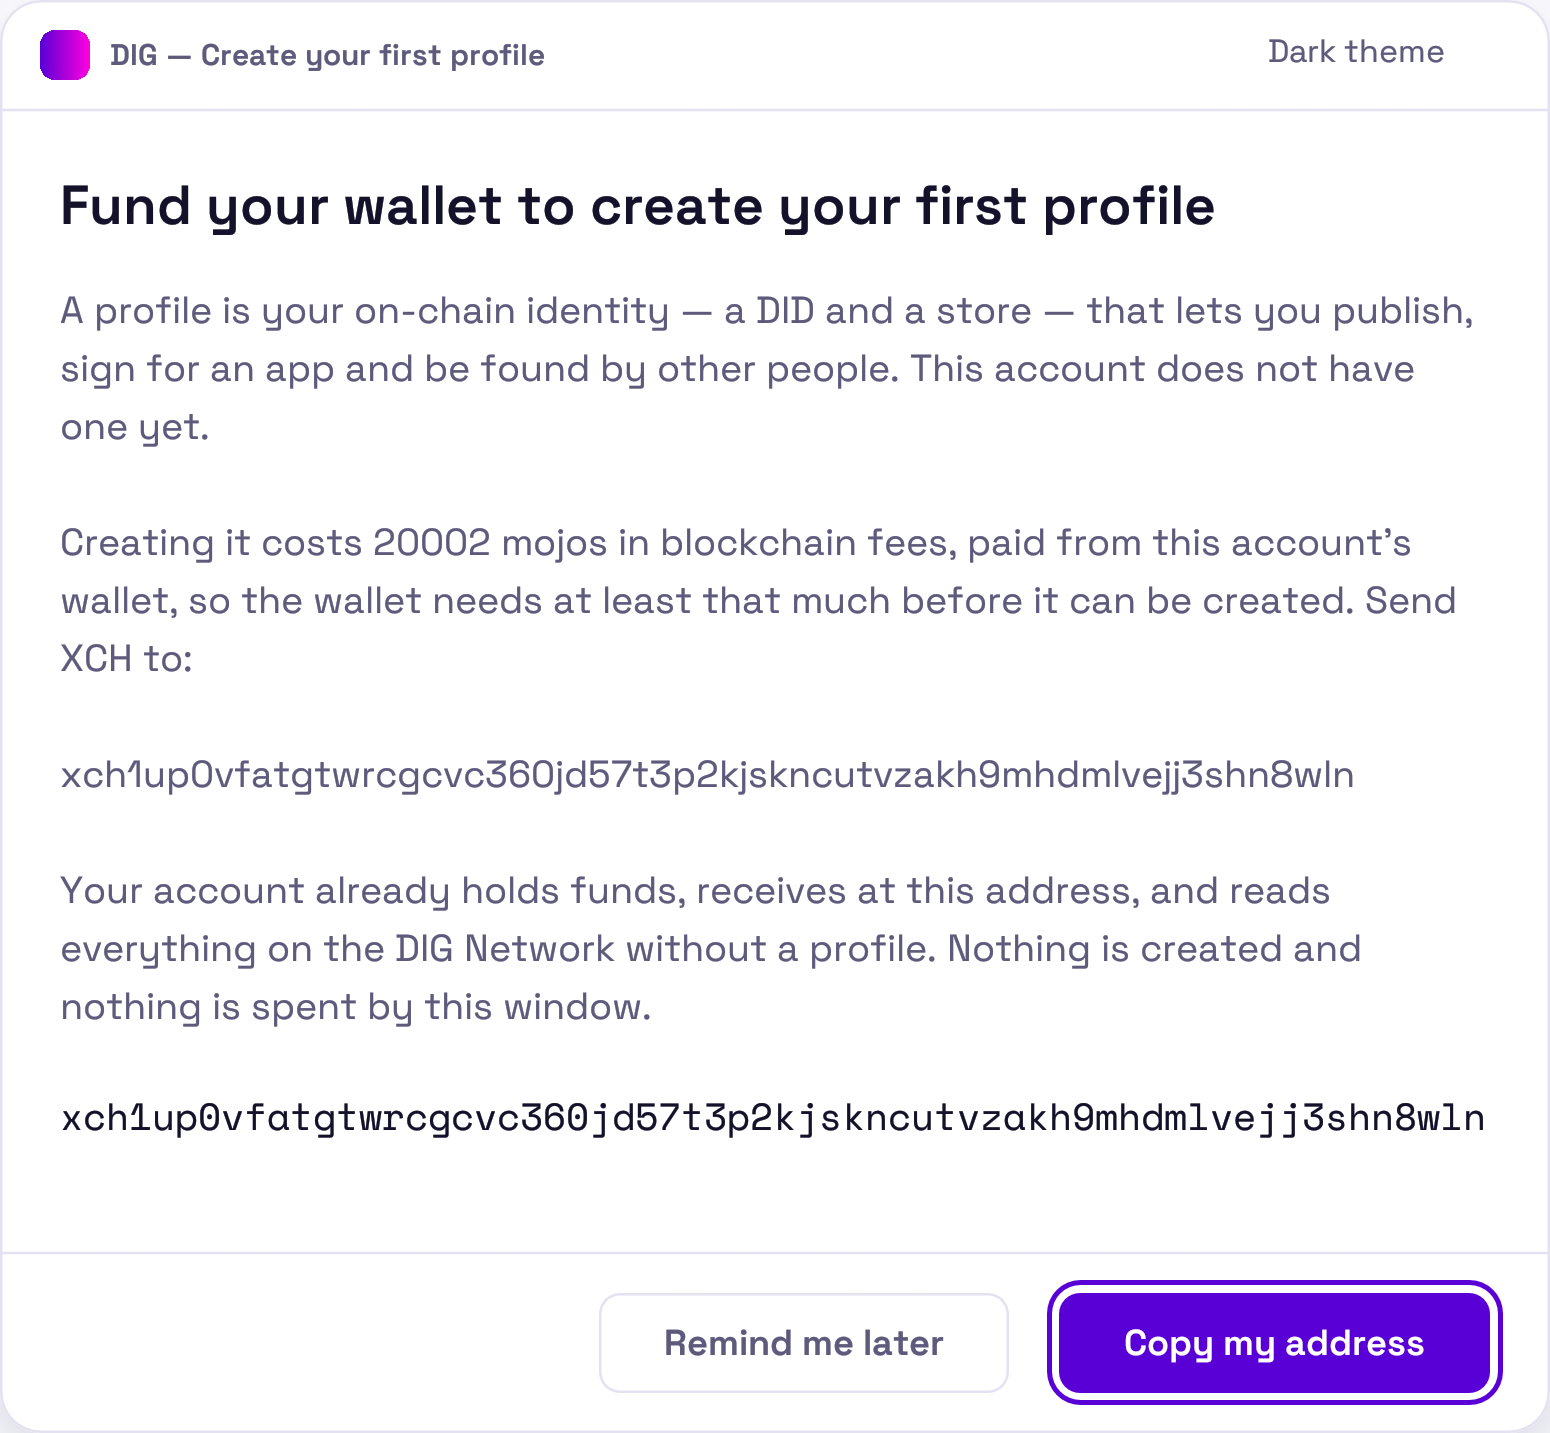
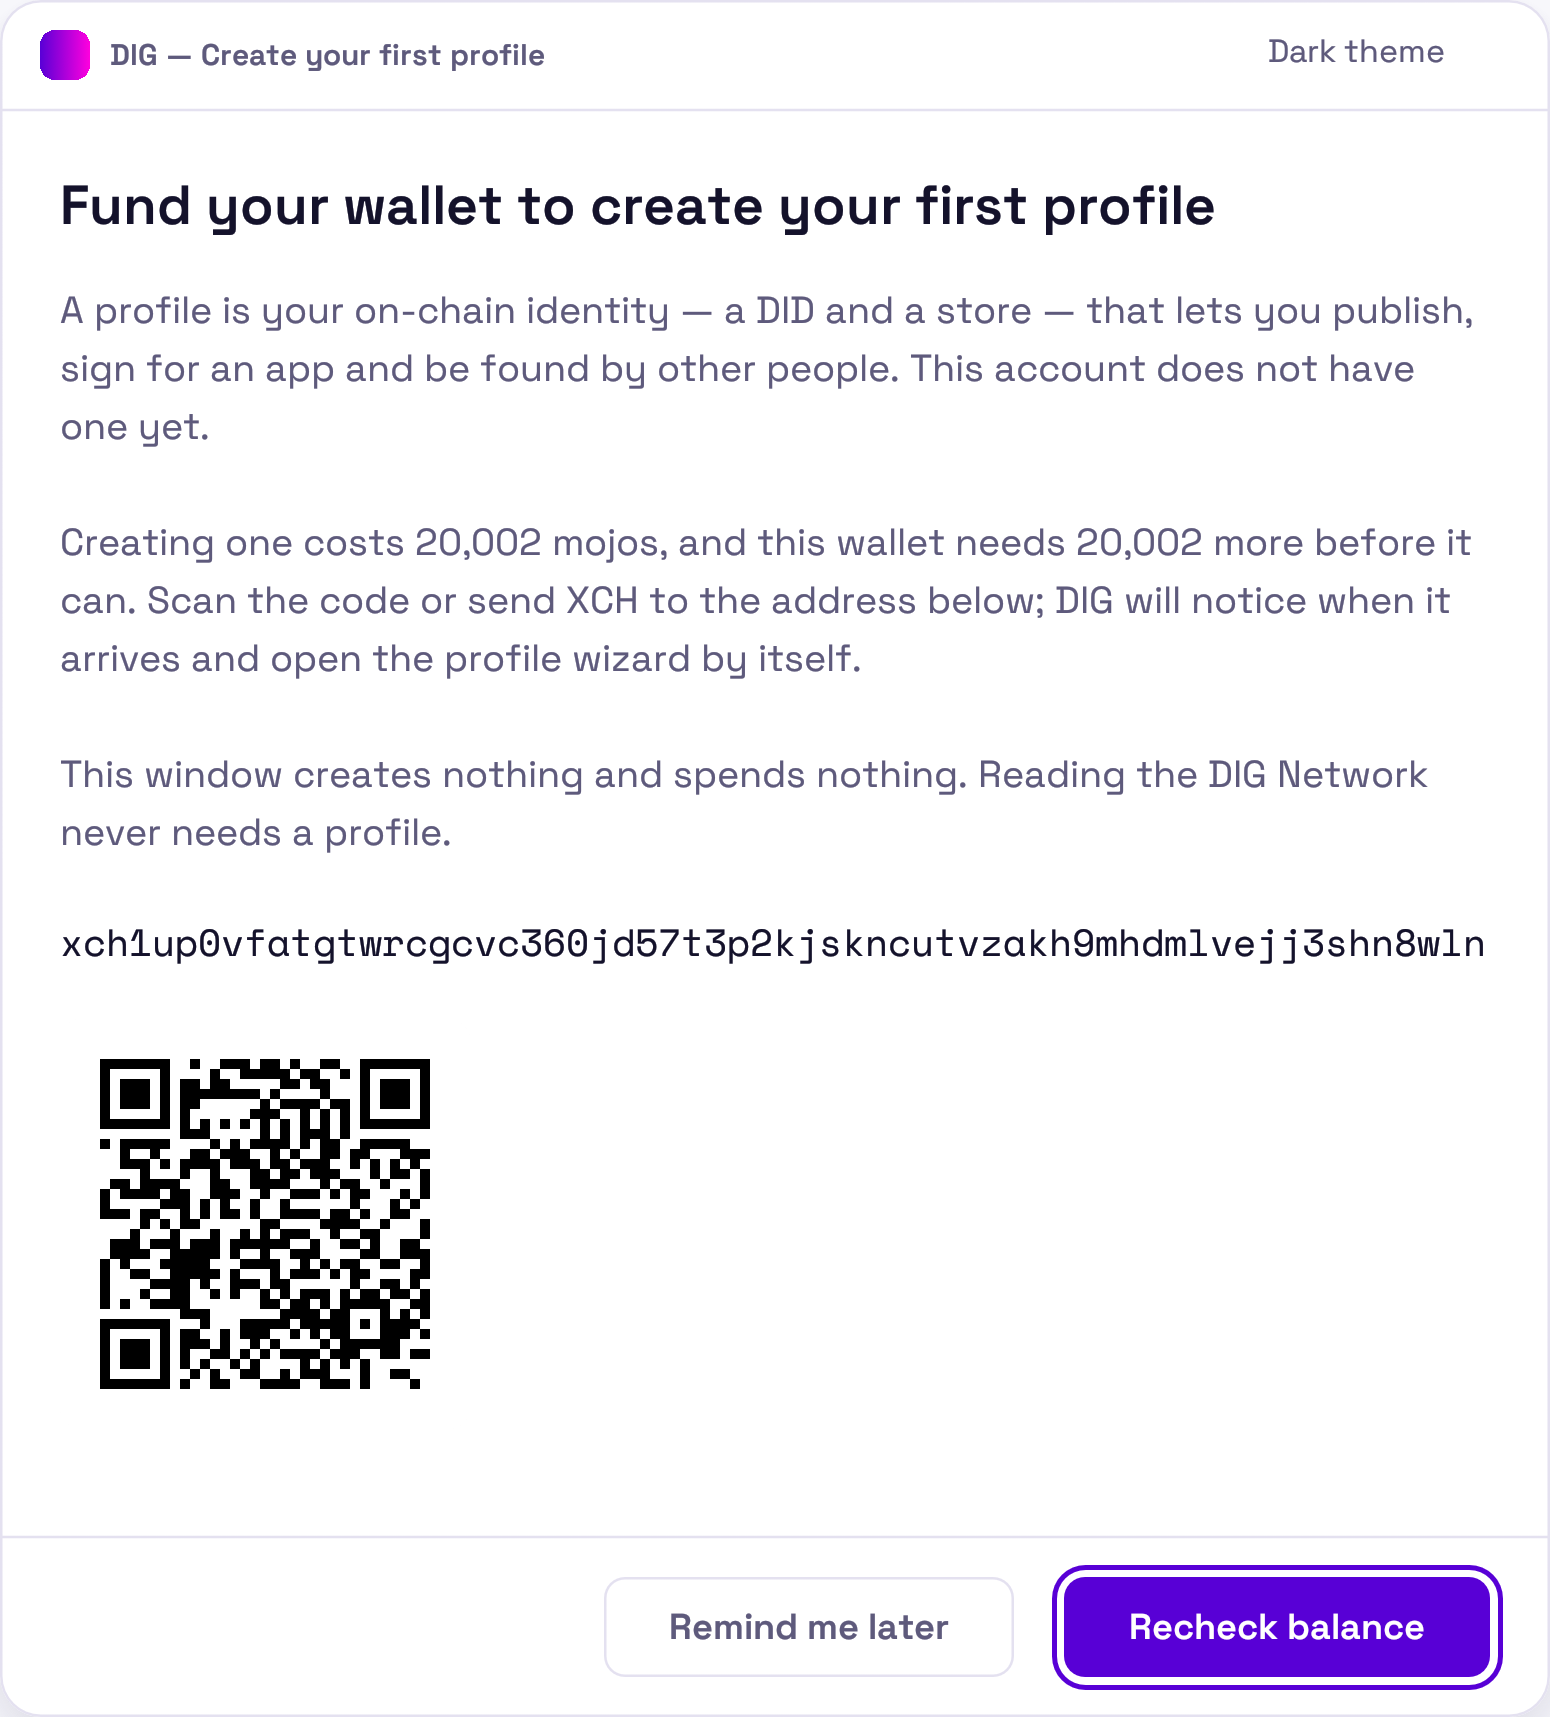
docs(app): specify the zero-profile funding watch and re-shoot its window
The screenshot predated the shortfall copy: it showed the address twice,
carried no QR, and offered a copy control that no longer exists. Re-taken
from the dialog gallery, so what is committed is the window the app draws.

SPEC gains 3.2-n, which states the cadence, the watch, the rule that an
unmeasured balance never draws a deposit window, the hysteresis, and that
nothing on this path spends.

diff --git a/SPEC.md b/SPEC.md
@@ -1967,6 +1967,40 @@ made an unconditional wall: a user who declines it keeps a usable app.
 MUST NOT record a DID, report an identity as ready, or show a success screen from a submission — only
 from a chain sighting that confirms it, and the evidence from that sighting is what is recorded.
 
+#### 3.2-n The zero-profile funding watch (normative, dig_ecosystem#2950)
+
+An account holding no profiles is prompted, automatically, to fund its wallet for its first one.
+
+**When it is raised (MUST).** Only when the profile registry ANSWERED and holds nothing, a whole
+profile can really be minted here (`profiles::ProfileCreation::is_possible`, derived from a live node
+probe — an unmeasured node withholds exactly as a measured blocker does), and the prompt is not
+deferred. Raising it writes the next-prompt time, so every way out of the window — the decline
+control, Escape, the frame close, a crash — yields the same cadence: **once per `REMINDER_INTERVAL`
+(24 h), persisted, until a profile exists.**
+
+**It is a watch (MUST).** While open, the window re-reads the balance each time its confirm deadline
+elapses and redraws with the CURRENT shortfall. A deadline expiry MUST continue the watch; only an
+explicit refusal (or a host with no confirmer) ends it.
+
+**An unmeasured balance MUST NOT draw a deposit window.** A shortfall is a subtraction, and
+`MintFunds::Unmeasured` carries no figure to subtract from. An unmeasured reading MUST force one
+interval-bypassing read (`wallet::node::NodeBalance::read_now`) before anything is drawn; only a
+balance still unmeasured after that may draw a window, and that window MUST state the reading's own
+reason and MUST NOT state a shortfall or a zero.
+
+**Sufficiency is hysteretic (MUST).** Once a balance has been seen to cover the cost, the flow MUST
+NOT return to a deposit window (`FundingLatch`) — the ceremony re-checks and refuses honestly, whereas
+the opposite error asks a funded person to send money twice. The threshold is `>= cost`.
+
+**The recheck control MUST answer (MUST).** It is rate-limited to `RECHECK_THROTTLE` (5 s), and each
+of its four outcomes — throttled, still short, could not measure, can pay — MUST produce a visible
+answer naming the moment of the read. Silence is prohibited.
+
+**Nothing on this path spends (MUST).** The prompt states a cost and shows a receiving address. This
+version has no creation ceremony behind it: on a sufficient balance the flow MUST say the wallet can
+pay, repeat the cost, and state that nothing was spent — and MUST NOT report a creation, or borrow the
+DID-only first-run wizard, which would mint a DID without its store (§3.1d).
+
 ### 3.3 Wallet
 
 The wallet is user-identity state and lives in dig-app (migrated out of the engine). It is a
